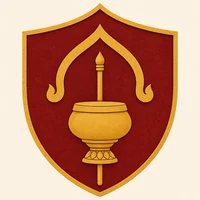
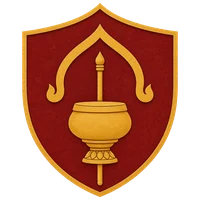
fix(assets): 徽记镂空透明底 + 横幅重裁保留绛红墙带
徽记：10 枚圆徽/盾徽原为不透明米白方底（RIFF 块 VP8，无 alpha），
亮色模式下每枚带一圈米白方边，暗色模式下变成深色页面上的米白瓷砖。
改用四角泛洪抠底而非几何蒙版 —— 五枚盾徽外轮廓各不相同，固定蒙版
会啃掉描边或留月牙；泛洪沿实际金色描边走，形状无关。在 1024 原图上
抠完再缩放，保住一两像素宽的金环。现为 VP8X/RGBA，已在亮底暗底
双重合成下逐张核边。

横幅：由 1280x853 重裁为 1280x660。原生 3:2 满宽铺开时约占 600px 高，
把 tagline、badge 与 --demo 钩子命令挤到折叠线以下。裁切窗口经校准，
下边必须保住底部那条绛红矮墙带 —— 它是全图唯一的绛红色块，
切掉后只剩金与米白，与五仪式徽记脱开家族。

diff --git a/tools/gen_assets.py b/tools/gen_assets.py
@@ -40,7 +40,7 @@ import urllib.error
 import urllib.request
 
 try:
-    from PIL import Image, ImageDraw, ImageFont
+    from PIL import Image, ImageDraw, ImageFilter, ImageFont
 except ImportError:  # pragma: no cover - 构建期工具，缺库时给出明确指引
     sys.stderr.write(
         "需要 Pillow：pip install Pillow\n"
@@ -56,6 +56,11 @@ BASE_URL = os.environ.get("AI_GATEWAY_BASE_URL", "https://ai-gateway-test.mcdchi
 MODEL = os.environ.get("AI_IMAGE_MODEL", "gpt-image-2")
 
 WEBP_QUALITY = 88
+
+# 横幅裁切窗口的上边位置，占可裁余量的比例。
+# 0.24 是实测校准值：再小会在屋脊上方留出过多空白天空，
+# 再大就会切掉底部那条绛红矮墙带（全图唯一的绛红色块）。
+HERO_TOP_BIAS = 0.24
 
 # ── 统一视觉语言 ──────────────────────────────────────────────────────────
 # 每个 prompt 都会拼上这段。改这里等于整套资产换皮，不会出现半新半旧。
@@ -93,8 +98,14 @@ GATEWAY_SUBJECT = (
 # ── 资产清单 ──────────────────────────────────────────────────────────────
 # (名称, 生成尺寸, 目标展示尺寸, 框型, 主体描述)
 MANIFEST = [
-    # 门面横幅
-    ("hero", "1536x1024", (1280, 853), FRAME_BANNER, GATEWAY_SUBJECT),
+    # 门面横幅。
+    # 裁成 1280×660 而非原生 3:2：满宽铺开时 3:2 在 GitHub 正文宽度下约占
+    # 600px 高，会把 tagline、badge 和对评委最关键的 `--demo` 钩子命令挤到
+    # 折叠线以下。裁后高度约 460px，既保留满宽冲击力又把钩子留在第一屏。
+    # 裁切窗口经过实测校准（见 HERO_TOP_BIAS）：上边留住屋脊尖顶，
+    # 下边必须留住那条绛红矮墙带 —— 它是与徽记家族呼应的唯一绛红色块，
+    # 切掉后整张图只剩金与米白，与五仪式徽记脱开了。
+    ("hero", "1536x1024", (1280, 660), FRAME_BANNER, GATEWAY_SUBJECT),
 
     # 五大仪式徽记
     ("ritual-morning", "1024x1024", (360, 360), FRAME_MEDALLION,
@@ -211,12 +222,61 @@ def generate(name, size, frame, subject, key):
     return path
 
 
+# 需要镂空米白底的资产：圆形徽记与盾形徽章。
+# 起因：不透明米白方底在 GitHub 亮色模式下给每枚徽记加一圈米白方边，
+# 在暗色模式下直接变成深色页面上的米白瓷砖。横幅与 OG 卡是整幅构图，不镂空。
+ALPHA_CUTOUT = {
+    "ritual-morning", "ritual-blessing", "ritual-inventory",
+    "ritual-transcend", "ritual-merit",
+    "badge-1-novice", "badge-2-acolyte", "badge-3-knight",
+    "badge-4-bishop", "badge-5-highpriest",
+}
+
+# 泛洪容差。米白底与金色描边在蓝色通道上差了近 180，40 的容差不会越过描边。
+FLOOD_THRESH = 40
+
+# 泛洪哨兵色。取纯洋红，确保不与三色调色板里的任何颜色相撞。
+_SENTINEL = (255, 0, 255)
+
+
+def _cutout_alpha(im):
+    """把四角连通的背景变透明。
+
+    用「四角泛洪」而不是几何蒙版：圆徽是正圆，但五枚盾徽的外轮廓各不相同
+    （五级徽章越高越华丽，边框形状也不一样），固定蒙版必然啃掉描边或留下月牙。
+    泛洪沿实际描边走，与形状无关。且只填四角连通的区域，
+    图案内部的浅色区域不会被误伤。
+    """
+    probe = im.copy()
+    w, h = probe.size
+    for xy in ((0, 0), (w - 1, 0), (0, h - 1), (w - 1, h - 1)):
+        ImageDraw.floodfill(probe, xy, _SENTINEL, thresh=FLOOD_THRESH)
+
+    # 掩膜建在副本上再贴回原图：直接在原图上泛洪的话，
+    # 羽化会把哨兵色的洋红混进边缘像素。
+    mask = Image.new("L", probe.size, 255)
+    mask.putdata([0 if px == _SENTINEL else 255 for px in probe.getdata()])
+    mask = mask.filter(ImageFilter.GaussianBlur(0.6))  # 羽化约 1px 去锯齿
+
+    out = im.convert("RGBA")
+    out.putalpha(mask)
+    return out
+
+
 def optimize(name, target):
-    """缩放 + 转 WebP，落到 assets/。返回字节数。"""
+    """裁切 + 镂空 + 缩放 + 转 WebP，落到 assets/。返回字节数。
+
+    顺序是先在 1024 原图上镂空再缩放：反过来在小图上抠，
+    金环描边只有一两个像素宽，边缘会糊。
+    """
     src = os.path.join(RAW, name + ".png")
     im = Image.open(src).convert("RGB")
-    if name == "og-bg":
+    if name == "hero":
+        im = _crop_to_ratio(im, target[0] / float(target[1]), HERO_TOP_BIAS)
+    elif name == "og-bg":
         im = _crop_to_ratio(im, target[0] / float(target[1]))
+    if name in ALPHA_CUTOUT:
+        im = _cutout_alpha(im)
     im = im.resize(target, Image.LANCZOS)
     out = os.path.join(ASSETS, name + ".webp")
     im.save(out, "WEBP", quality=WEBP_QUALITY, method=6)
